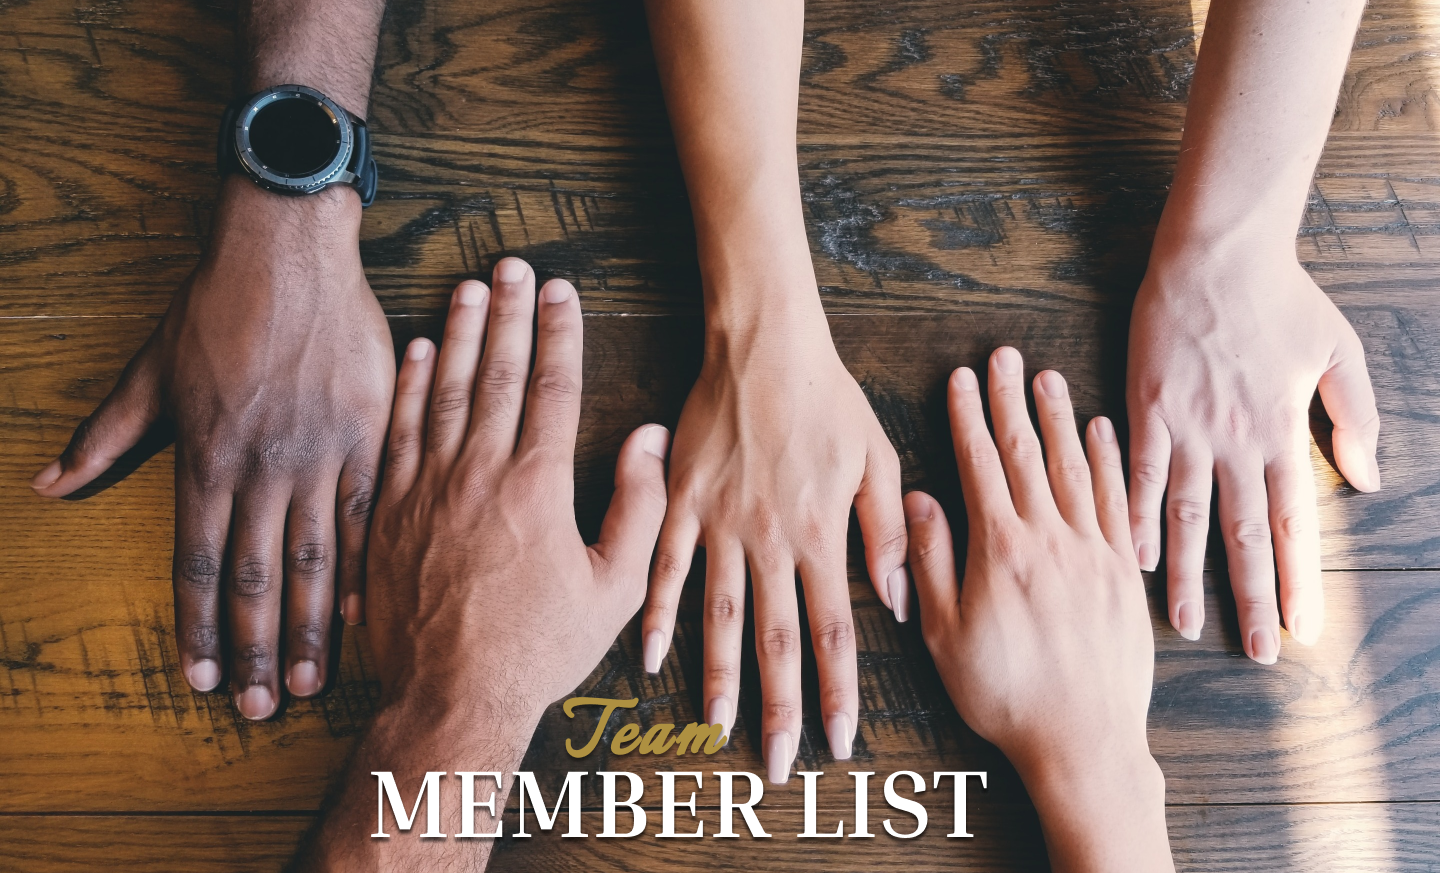
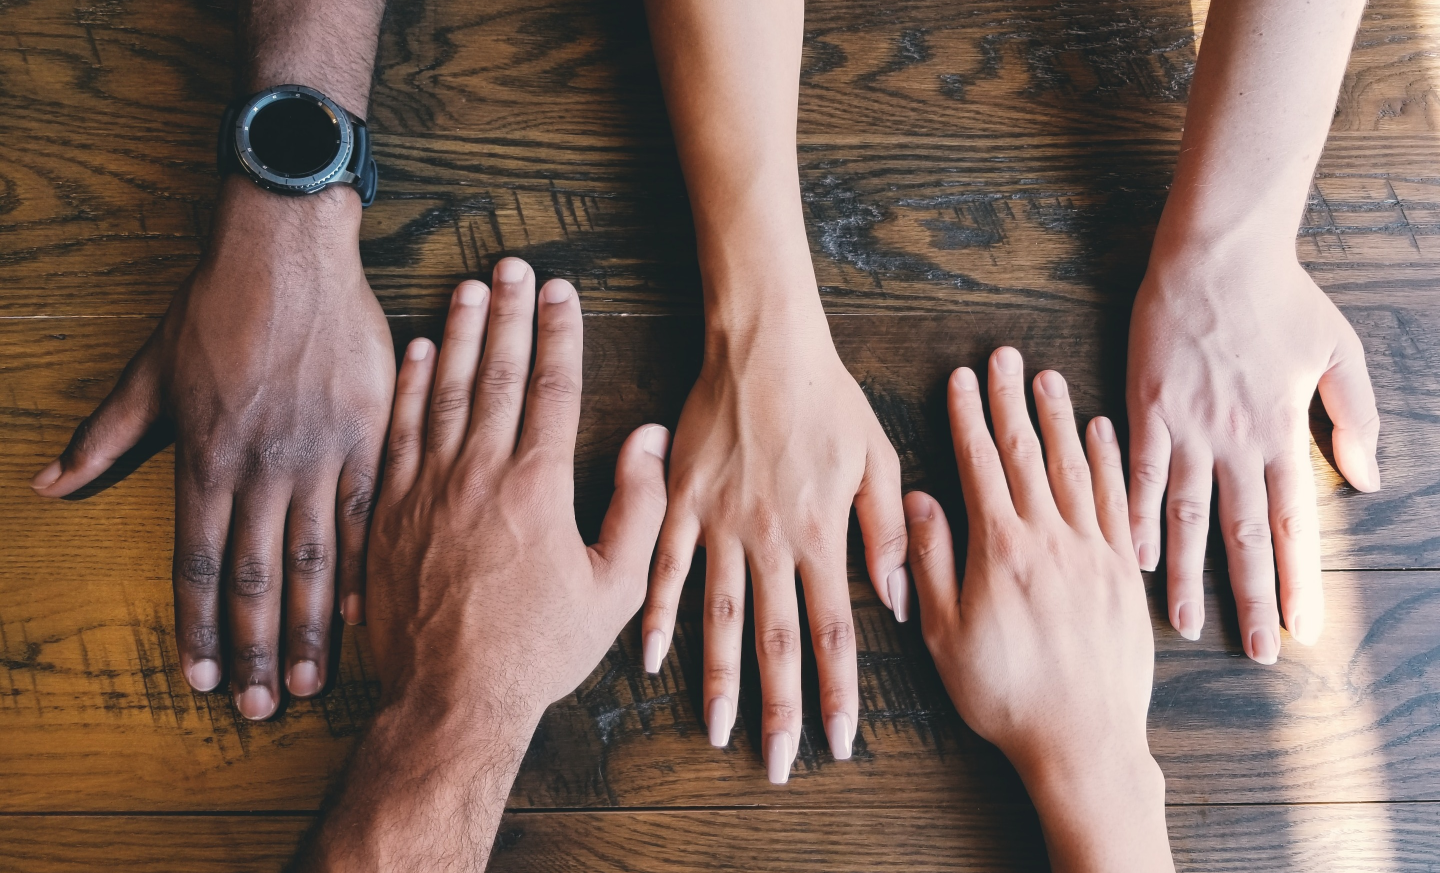
ny commit

Changed region(s): [[0.25, 0.7732, 0.6875, 0.9897]]

diff --git a/medlemslista/medlemlista.html b/medlemslista/medlemlista.html
@@ -3,11 +3,15 @@
 <head>
     <meta charset="UTF-8">
     <meta name="viewport" content="width=device-width, initial-scale=1.0">
-    <title>medlemlista</title>
-    <link rel="stylesheet" type="text/css" href="/style.css">
+    <title>Document</title>
+    <link rel="stylesheet" href="/main.css">
+    <link rel="icon" type="image/x-icon" href="assets/royal favicon.ico">
+    <script src="https://kit.fontawesome.com/3238d3e083.js" crossorigin="anonymous"></script>
+
 </head>
 <body>
-    <header class="header">
+     <!-- Navigation bar -->
+     <header class="header">
         <!-- Menu -->
         <nav>
             <a href="#">
@@ -30,15 +34,11 @@
             </div>
         </nav>
     </header>
-    
-    <header>
-
-    <div class="container">
-        <h2>Team</h2>
-        <h1>MEMBER LIST</h1>
-    </div>
-    </header>
-
+    <main>
+        <div class="bild">
+        </div>
+    </main>
+    <!--Footer-->
     <footer>
         <section>
             <i class="fa-brands fa-facebook fa-3x shortcut"></i>
@@ -47,7 +47,7 @@
             <i class="fa-brands fa-facebook-messenger fa-3x shortcut"></i>
         </section>
         <a href="/index.html">
-            <img src="assets/royal second logo.PNG" alt="Logo">
+            <img src="/assets/royal second logo.PNG" alt="Logo">
         </a>
         <ul>
             <li>
@@ -60,5 +60,8 @@
             <li>Priser</li>
         </ul>
     </footer>
+
+
+
 </body>
 </html>

diff --git a/style.css b/style.css
@@ -1,40 +1,6 @@
 @import url("https://fonts.googleapis.com/css2?family=Istok+Web&display=swap");
 @import url("https://fonts.googleapis.com/css2?family=Italianno&display=swap");
 @import url("https://fonts.googleapis.com/css2?family=Inria+Serif:wght@700&display=swap");
-/*----- medlemlista----*/
-@import url("https://fonts.googleapis.com/css2?family=Inria+Serif:wght@400;700&display=swap");
-@import url("https://fonts.googleapis.com/css2?family=Inria+Serif:wght@400;700&family=Italianno&display=swap");
-* {
-  margin: 0;
-  padding: 0;
-  box-sizing: border-box;
-}
-
-header {
-  width: 100%;
-  height: 800px;
-  background-image: url(/assets/medlemlista.png);
-  background-repeat: no-repeat;
-  background-position: bottom;
-  background-size: cover;
-  display: flex;
-  align-items: flex-end;
-  justify-content: center;
-}
-
-.container h2 {
-  text-align: center;
-  color: goldenrod;
-  font-family: "Italianno", cursive;
-  font-size: 4rem;
-}
-
-.container h1 {
-  font-size: 4, 5rem;
-  font-family: "Inria Serif", serif;
-}
-
-/*-----medlemlista*/
 * {
   margin: 0;
   padding: 0;

diff --git a/main.css b/main.css
@@ -1,4 +1,37 @@
+@charset "UTF-8";
 @import url("https://fonts.googleapis.com/css2?family=Istok+Web&display=swap");
+/*----- medlemlista----*/
+@import url("https://fonts.googleapis.com/css2?family=Inria+Serif:wght@400;700&display=swap");
+@import url("https://fonts.googleapis.com/css2?family=Inria+Serif:wght@400;700&family=Italianno&display=swap");
+/*Början av medlemlista*/
+* {
+  margin: 0;
+  padding: 0;
+  box-sizing: border-box;
+}
+
+.bild {
+  background-image: url(/assets/medlemlista.png);
+  background-size: cover;
+  background-repeat: no-repeat;
+  height: 873px;
+  display: flex;
+  align-items: end;
+}
+
+.container h2 {
+  text-align: center;
+  color: goldenrod;
+  font-family: "Italianno", cursive;
+  font-size: 4rem;
+}
+
+.container h1 {
+  font-size: 4, 5rem;
+  font-family: "Inria Serif", serif;
+}
+
+/*-----medlemlista*/
 * {
   margin: 0;
   padding: 0;

diff --git a/medlemslista/_medlemlista.scss b/medlemslista/_medlemlista.scss
@@ -1,21 +1,19 @@
 /*----- medlemlista----*/
 @import url('https://fonts.googleapis.com/css2?family=Inria+Serif:wght@400;700&display=swap');
 @import url('https://fonts.googleapis.com/css2?family=Inria+Serif:wght@400;700&family=Italianno&display=swap');
+/*Början av medlemlista*/
 *{
     margin: 0;
     padding: 0;
     box-sizing: border-box;
 }
-header{
-    width: 100%;
-    height: 800px;
-    background-image: url(/assets/medlemlista.png);
-    background-repeat: no-repeat;
-    background-position: bottom;
-    background-size: cover;
-    display: flex;
-    align-items: flex-end;
-    justify-content:center ;
+.bild{
+  background-image: url(/assets/medlemlista.png);
+  background-size: cover;
+  background-repeat: no-repeat;
+  height: 873px;
+  display: flex;
+  align-items: end;
    
 }
 

diff --git a/style.scss b/style.scss
@@ -1,7 +1,7 @@
 @import url('https://fonts.googleapis.com/css2?family=Istok+Web&display=swap');
 @import url('https://fonts.googleapis.com/css2?family=Italianno&display=swap');
 @import url('https://fonts.googleapis.com/css2?family=Inria+Serif:wght@700&display=swap');
-@import './medlemslista/medlemlista';
+
 
 
 

diff --git a/main.scss b/main.scss
@@ -1,6 +1,6 @@
 
 @import url('https://fonts.googleapis.com/css2?family=Istok+Web&display=swap');
-
+@import './medlemslista/medlemlista';
 
 * {
     margin: 0;
